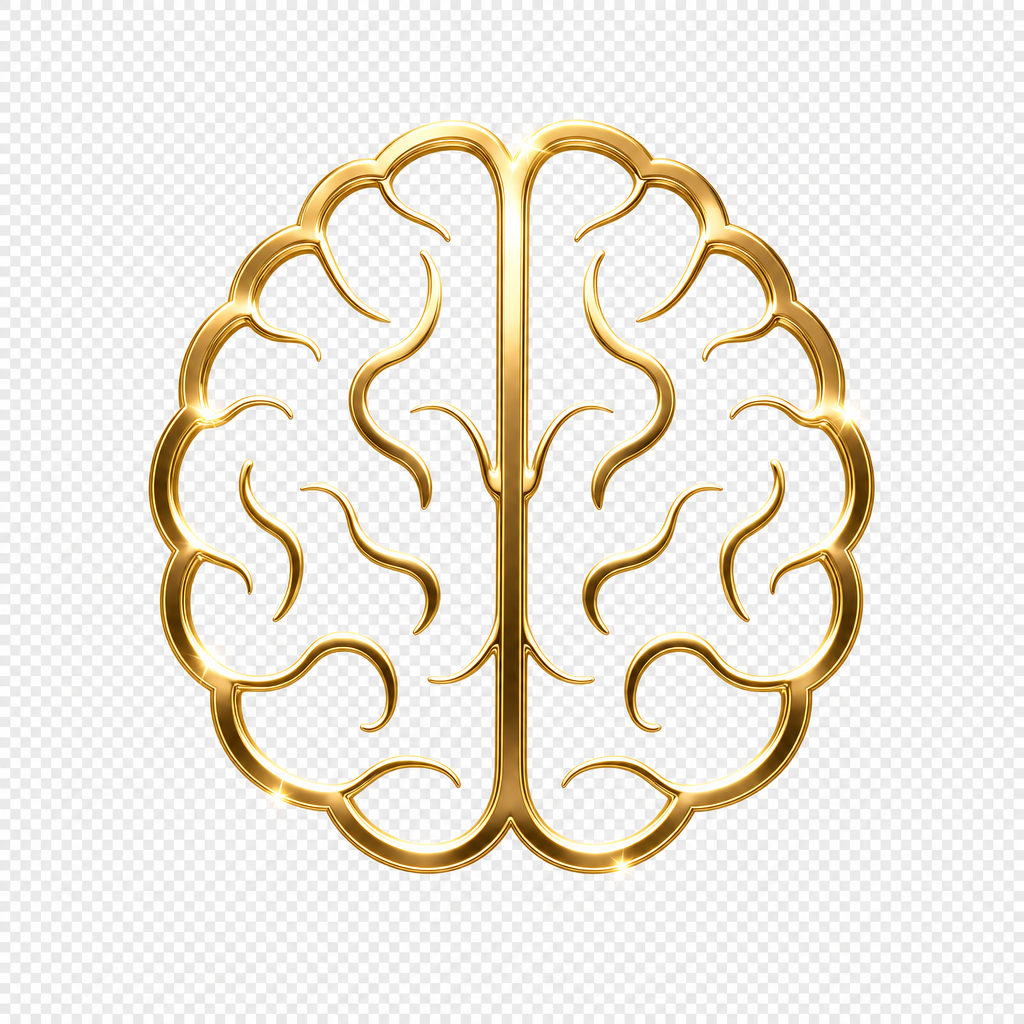
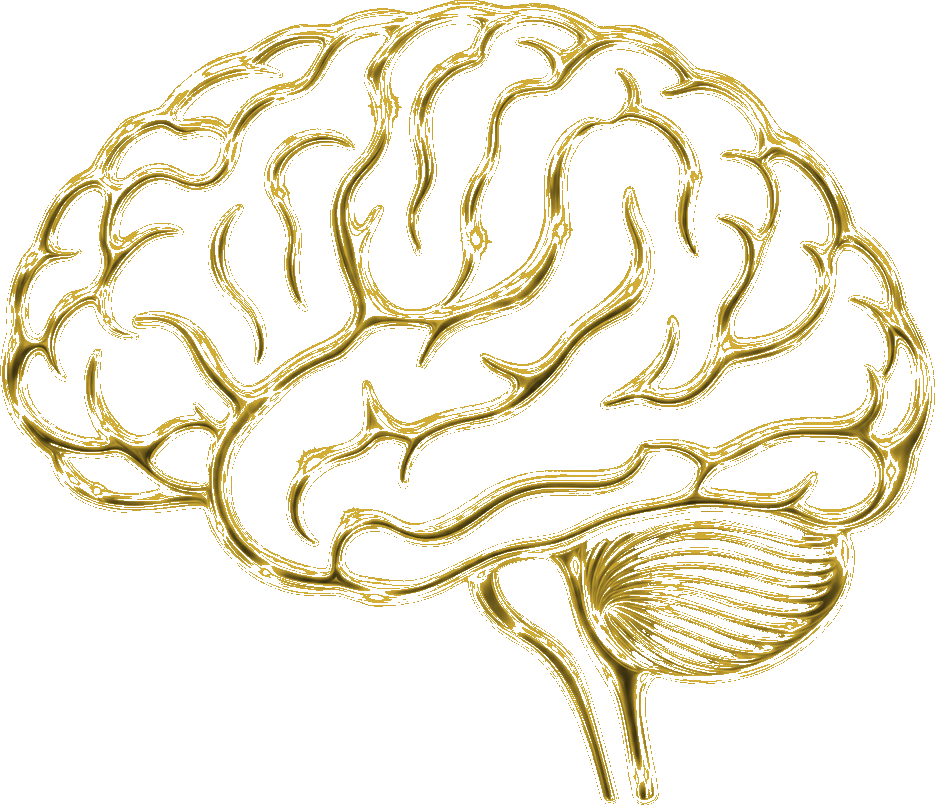
fix(landing): transparent gold brain, auth panel and hero buttons matching variant 1

Changed region(s): [[0.0, 0.0, 1.0, 1.0]]

diff --git a/minimal.css b/minimal.css
@@ -1637,3 +1637,222 @@ body::before { display: none !important; }
     color: var(--text-secondary) !important;
     line-height: 1.5 !important;
 }
+
+/* Landing v1 — auth panel & buttons refinements */
+.landing-layout.landing-v1 .landing-main { padding: 24px !important; }
+
+@media (min-width: 1024px) {
+    .landing-layout.landing-v1 .landing-main {
+        grid-template-columns: 1fr 220px 280px !important;
+        gap: 32px !important;
+        padding: 32px !important;
+    }
+}
+
+@media (min-width: 1200px) {
+    .landing-layout.landing-v1 .landing-main {
+        grid-template-columns: 1fr 260px 320px !important;
+        gap: 48px !important;
+        padding: 48px !important;
+    }
+}
+
+.landing-layout.landing-v1 .landing-cta { gap: 14px !important; }
+
+.landing-layout.landing-v1 .landing-btn-primary {
+    display: inline-flex !important;
+    align-items: center !important;
+    justify-content: center !important;
+    gap: 10px !important;
+    width: auto !important;
+    flex: 0 1 auto !important;
+    min-width: 200px !important;
+    background: var(--gold) !important;
+    color: #0c0c0e !important;
+    border: none !important;
+    border-radius: 999px !important;
+    padding: 14px 28px !important;
+    font-size: 15px !important;
+    font-weight: 700 !important;
+    cursor: pointer !important;
+    transition: filter .15s ease, transform .15s ease !important;
+    text-align: center !important;
+}
+
+.landing-layout.landing-v1 .landing-btn-primary:hover { filter: brightness(1.08) !important; transform: translateY(-2px) !important; }
+
+.landing-layout.landing-v1 .landing-btn-primary .btn-arrow,
+.landing-layout.landing-v1 .landing-btn-primary .btn-play { width: 18px !important; height: 18px !important; flex-shrink: 0 !important; }
+
+.landing-layout.landing-v1 .hero-brain { width: 180px !important; right: -30px !important; opacity: .45 !important; }
+
+@media (min-width: 1024px) {
+    .landing-layout.landing-v1 .hero-brain { width: 220px !important; right: -50px !important; opacity: .5 !important; }
+}
+
+.landing-layout.landing-v1 .auth-panel {
+    width: 100% !important;
+    max-width: 340px !important;
+    background: rgba(26,26,28,0.78) !important;
+    backdrop-filter: blur(16px) !important;
+    border: 1px solid rgba(255,255,255,0.08) !important;
+    border-radius: 22px !important;
+    padding: 24px !important;
+    box-shadow: 0 24px 80px rgba(0,0,0,0.45) !important;
+    text-align: center !important;
+    display: flex !important;
+    flex-direction: column !important;
+    align-items: center !important;
+}
+
+.landing-layout.landing-v1 .auth-header {
+    width: 100% !important;
+    background: rgba(21,21,23,0.9) !important;
+    border: 1px solid rgba(255,255,255,0.08) !important;
+    border-radius: 16px !important;
+    padding: 16px 24px !important;
+    margin-bottom: 18px !important;
+    box-sizing: border-box !important;
+    text-align: center !important;
+}
+
+.landing-layout.landing-v1 .auth-brain-wrap {
+    width: 56px !important;
+    height: 56px !important;
+    margin: 0 auto 10px !important;
+    border-radius: 50% !important;
+    background: rgba(212,175,55,0.10) !important;
+    border: 1px solid rgba(212,175,55,0.25) !important;
+    display: flex !important;
+    align-items: center !important;
+    justify-content: center !important;
+}
+
+.landing-layout.landing-v1 .auth-brain {
+    width: 38px !important;
+    height: 38px !important;
+    object-fit: contain !important;
+    filter: drop-shadow(0 0 10px rgba(212,175,55,0.4)) !important;
+}
+
+.landing-layout.landing-v1 .auth-brand {
+    font-size: 18px !important;
+    font-weight: 800 !important;
+    color: var(--text-primary) !important;
+    letter-spacing: -0.02em !important;
+}
+
+.landing-layout.landing-v1 .auth-tagline {
+    font-size: 15px !important;
+    font-weight: 700 !important;
+    color: var(--text-primary) !important;
+    line-height: 1.35 !important;
+    margin-bottom: 6px !important;
+}
+
+.landing-layout.landing-v1 .auth-desc {
+    font-size: 13px !important;
+    color: var(--text-secondary) !important;
+    line-height: 1.5 !important;
+    margin-bottom: 20px !important;
+}
+
+.landing-layout.landing-v1 .auth-login-btn,
+.landing-layout.landing-v1 .auth-register-btn {
+    width: 100% !important;
+    box-sizing: border-box !important;
+    border-radius: 12px !important;
+    padding: 13px 20px !important;
+    font-size: 15px !important;
+    font-weight: 700 !important;
+    cursor: pointer !important;
+    text-align: center !important;
+    display: inline-flex !important;
+    align-items: center !important;
+    justify-content: center !important;
+    gap: 8px !important;
+    transition: filter .15s ease, transform .15s ease, background .15s ease !important;
+}
+
+.landing-layout.landing-v1 .auth-login-btn {
+    background: var(--gold) !important;
+    color: #0c0c0e !important;
+    border: none !important;
+    margin-bottom: 10px !important;
+}
+
+.landing-layout.landing-v1 .auth-login-btn:hover { filter: brightness(1.08) !important; transform: translateY(-2px) !important; }
+
+.landing-layout.landing-v1 .auth-register-btn {
+    background: rgba(20,20,22,0.85) !important;
+    color: var(--gold) !important;
+    border: 1.5px solid var(--gold) !important;
+    margin-bottom: 16px !important;
+}
+
+.landing-layout.landing-v1 .auth-register-btn:hover { background: rgba(212,175,55,0.12) !important; transform: translateY(-2px) !important; }
+
+.landing-layout.landing-v1 .auth-login-btn .btn-arrow { width: 18px !important; height: 18px !important; flex-shrink: 0 !important; }
+
+.landing-layout.landing-v1 .auth-divider {
+    display: flex !important;
+    align-items: center !important;
+    gap: 12px !important;
+    color: var(--text-dim) !important;
+    font-size: 12px !important;
+    margin: 0 0 14px 0 !important;
+    width: 100% !important;
+}
+
+.landing-layout.landing-v1 .auth-divider::before,
+.landing-layout.landing-v1 .auth-divider::after {
+    content: '' !important;
+    flex: 1 !important;
+    height: 1px !important;
+    background: var(--border) !important;
+}
+
+.landing-layout.landing-v1 .auth-socials {
+    display: flex !important;
+    gap: 12px !important;
+    justify-content: center !important;
+    margin-bottom: 16px !important;
+}
+
+.landing-layout.landing-v1 .auth-social {
+    width: 44px !important;
+    height: 44px !important;
+    border-radius: 50% !important;
+    background: rgba(20,20,22,0.85) !important;
+    border: 1px solid rgba(212,175,55,0.4) !important;
+    color: var(--gold) !important;
+    display: inline-flex !important;
+    align-items: center !important;
+    justify-content: center !important;
+    cursor: pointer !important;
+    transition: background .15s ease, transform .15s ease !important;
+    padding: 0 !important;
+}
+
+.landing-layout.landing-v1 .auth-social:hover { background: rgba(212,175,55,0.12) !important; transform: translateY(-2px) !important; }
+
+.landing-layout.landing-v1 .auth-social svg { width: 20px !important; height: 20px !important; }
+
+.landing-layout.landing-v1 .auth-privacy {
+    font-size: 11px !important;
+    color: var(--text-dim) !important;
+    line-height: 1.4 !important;
+    margin-bottom: 12px !important;
+}
+
+.landing-layout.landing-v1 .auth-forgot {
+    color: var(--text-secondary) !important;
+    font-size: 13px !important;
+    background: transparent !important;
+    border: none !important;
+    cursor: pointer !important;
+    padding: 0 !important;
+    margin: 0 !important;
+}
+
+.landing-layout.landing-v1 .auth-forgot:hover { color: var(--gold) !important; }

diff --git a/platform.js b/platform.js
@@ -886,8 +886,14 @@ function renderAuthOptions() {
           </div>
           <p>Обучайте сотрудников меню заведения за 10 минут в день. ТТК, тесты, прогресс.</p>
           <div class="landing-cta">
-            <button class="landing-btn-primary" onclick="goToScreen('roleSelect', true)">Начать бесплатно</button>
-            <button class="landing-btn-secondary" onclick="goToScreen('roleSelect', true)">Смотреть демо</button>
+            <button class="landing-btn-primary" onclick="goToScreen('roleSelect', true)">
+              <span>Начать бесплатно</span>
+              <svg class="btn-arrow" viewBox="0 0 24 24" fill="none" stroke="currentColor" stroke-width="2.5" stroke-linecap="round" stroke-linejoin="round"><line x1="5" y1="12" x2="19" y2="12"></line><polyline points="12 5 19 12 12 19"></polyline></svg>
+            </button>
+            <button class="landing-btn-primary" onclick="goToScreen('roleSelect', true)">
+              <span>Смотреть демо</span>
+              <svg class="btn-play" viewBox="0 0 24 24" fill="currentColor"><polygon points="5 3 19 12 5 21 5 3"></polygon></svg>
+            </button>
           </div>
           <div class="landing-logos">
             <span class="landing-logo">Cofix</span>
@@ -925,14 +931,31 @@ function renderAuthOptions() {
         </div>
         <div class="landing-auth">
           <div class="auth-panel">
-            <div class="auth-brain-wrap"><img src="img/hero-brain.png" class="auth-brain" alt=""></div>
-            <div class="platform-title">Cognitio</div>
-            <div class="platform-subtitle">Войдите или зарегистрируйтесь</div>
-            <button class="onboarding-btn" style="width:100%;margin-bottom:10px;" onclick="goToScreen('login', true)">Войти</button>
-            <button class="stats-btn" style="width:100%;margin-bottom:16px;" onclick="goToScreen('roleSelect', true)">Регистрация</button>
-            <button class="onboarding-btn" style="width:100%;margin-top:4px;" onclick="goToScreen('roleSelect', true)">Продолжить с Email</button>
+            <div class="auth-header">
+              <div class="auth-brain-wrap"><img src="img/hero-brain.png" class="auth-brain" alt=""></div>
+              <div class="auth-brand">Cognitio</div>
+            </div>
+            <div class="auth-tagline">Знания, которые создают качество сервиса</div>
+            <div class="auth-desc">Обучайте сотрудников меню заведения за 10 минут в день.</div>
+            <button class="auth-login-btn" onclick="goToScreen('login', true)">
+              <span>Войти</span>
+              <svg class="btn-arrow" viewBox="0 0 24 24" fill="none" stroke="currentColor" stroke-width="2.5" stroke-linecap="round" stroke-linejoin="round"><line x1="5" y1="12" x2="19" y2="12"></line><polyline points="12 5 19 12 12 19"></polyline></svg>
+            </button>
+            <button class="auth-register-btn" onclick="goToScreen('roleSelect', true)">Регистрация</button>
+            <div class="auth-divider"><span>или продолжить с</span></div>
+            <div class="auth-socials">
+              <button class="auth-social" aria-label="Google" onclick="goToScreen('roleSelect', true)">
+                <svg viewBox="0 0 24 24" fill="none" stroke="currentColor" stroke-width="2" stroke-linecap="round" stroke-linejoin="round"><path d="M12 2h-1.5c-3.5 0-6.5 2.5-7.3 6"></path><path d="M12 2c5.5 0 10 4.5 10 10s-4.5 10-10 10"></path></svg>
+              </button>
+              <button class="auth-social" aria-label="Apple" onclick="goToScreen('roleSelect', true)">
+                <svg viewBox="0 0 24 24" fill="currentColor"><path d="M18.7 8.1c-.9-.8-2.2-1.1-3.4-.7-.7.2-1.3.7-1.7 1.3-.5.8-.5 1.8-.1 2.6.2.4.5.8.9 1.1-1 1.6-2.5 2.6-4.3 2.6-1 0-2-.3-2.8-.9-1-.7-1.6-1.8-1.6-3 0-1.8 1.2-3.4 3-4 .6-.2 1.2-.3 1.8-.2.7.1 1.3.4 1.8.8l.2.2c.5-.8 1.2-1.4 2.1-1.8.9-.4 2-.5 3-.2 1.2.3 2.2 1.1 2.8 2.2-.3.2-.6.5-.9.7-.6.5-1.1 1.1-1.4 1.8-.4.9-.4 1.9 0 2.8.3.7.8 1.3 1.4 1.8.3.2.6.4.9.6-.4 1.1-1.1 2-2.1 2.7-1.2.9-2.8 1.4-4.3 1.1-.8-.2-1.5-.5-2.1-1l-.2-.2c-.6.7-1.3 1.2-2.2 1.5-.8.3-1.8.3-2.6-.1 1.3-1.2 2.1-2.9 2.1-4.7 0-1.9-1-3.6-2.6-4.5.3-1.3 1-2.4 2.1-3.1 1-.7 2.3-1 3.5-.7.6.1 1.1.4 1.6.7z"></path></svg>
+              </button>
+              <button class="auth-social" aria-label="Email" onclick="goToScreen('roleSelect', true)">
+                <svg viewBox="0 0 24 24" fill="none" stroke="currentColor" stroke-width="2" stroke-linecap="round" stroke-linejoin="round"><rect x="2" y="5" width="20" height="14" rx="2"></rect><polyline points="2 7 12 13 22 7"></polyline></svg>
+              </button>
+            </div>
             <div class="auth-privacy">Нажимая кнопку, вы соглашаетесь с политикой конфиденциальности</div>
-            <button class="link-btn" style="margin-top:16px;" onclick="goToScreen('forgotPassword', { login: '' })">Забыли пароль?</button>
+            <button class="link-btn auth-forgot" onclick="goToScreen('forgotPassword', { login: '' })">Забыли пароль?</button>
           </div>
         </div>
       </div>
